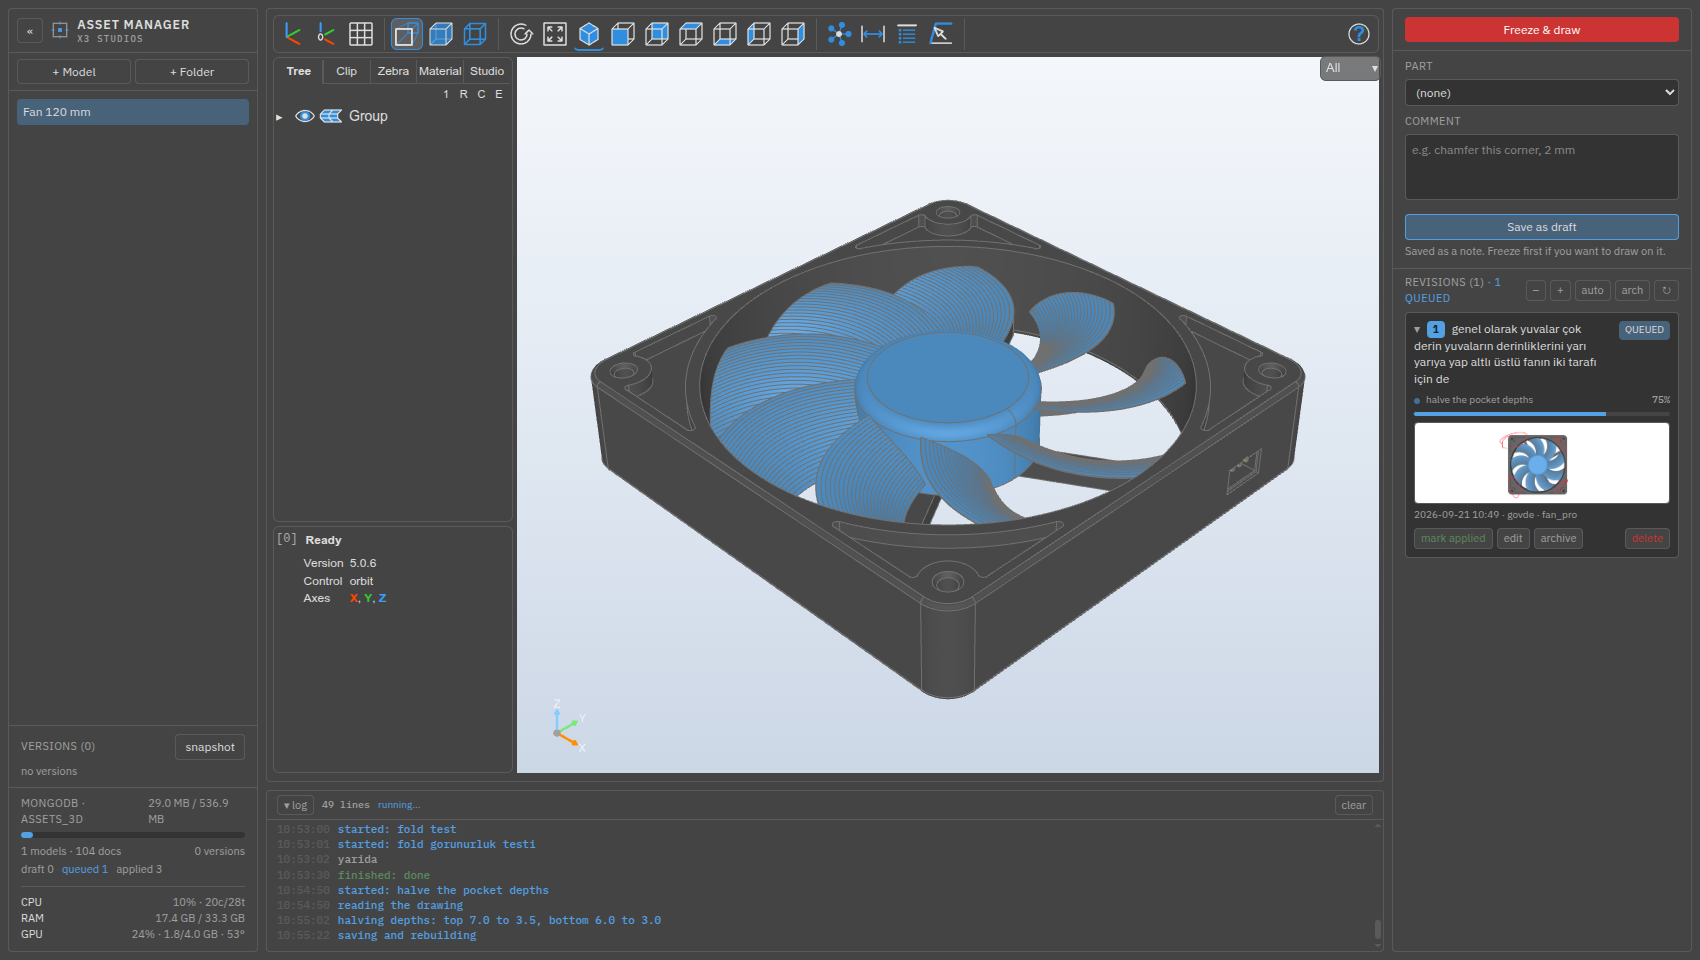
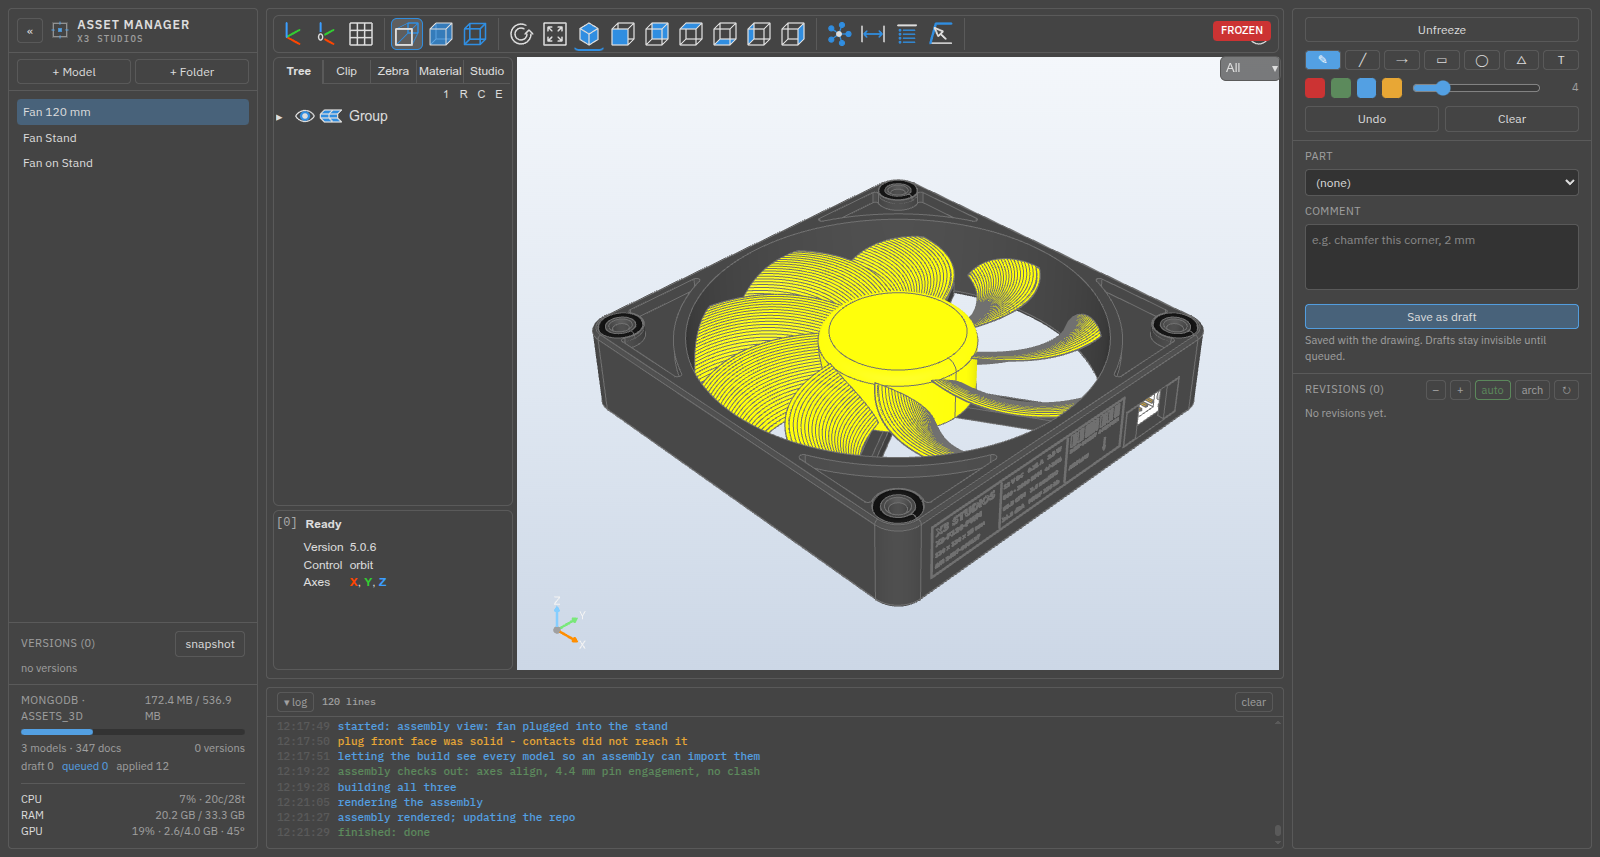
Let a model be built from other models
An assembly used to be impossible: the build wrote only the target model's
source into the working directory, so nothing could import the parts it is
made of and every dimension had to be copied by hand. Every model's source
is written now, and a part guards its exports behind X3_IMPORT_ONLY so
importing one does not drop its STEP and STL into the assembly's output.

Also:
- ?model=<name> opens a named model, and render.py takes model:<name>, so
  a model can be photographed without a revision pointing at it
- the skill now states up front that a run must be opened when a revision
  is picked up; that section was buried at the end and I kept skipping it

README: the assembly section, the seven draw tools, the completion notice,
the clip planes, and a current screenshot.

diff --git a/frontend/src/app/editor/editor.ts b/frontend/src/app/editor/editor.ts
@@ -250,10 +250,16 @@ export class Editor implements AfterViewInit, OnDestroy {
     return pct > 85 ? 'var(--danger)' : pct > 60 ? 'var(--warn)' : 'var(--accent)';
   }
 
-  /** ?rev=<id> opens the model at that revision's camera. */
+  /** ?rev=<id> opens the model at that revision's camera; ?model=<id>
+   *  opens a named model, which is how a shot of one is taken. */
   private applyUrlCamera() {
-    const rev = new URLSearchParams(location.search).get('rev');
+    const q = new URLSearchParams(location.search);
+    const rev = q.get('rev');
     if (rev) this.focusRevision(rev);
+  }
+
+  private urlModel(): string | null {
+    return new URLSearchParams(location.search).get('model');
   }
 
   /** Move to the camera a revision was drawn from. If no model is loaded
@@ -276,8 +282,9 @@ export class Editor implements AfterViewInit, OnDestroy {
     this.cat.tree().subscribe(t => {
       this.catalog.set(t);
       if (!this.activeModel()) {
-        const first = this.firstReady(t);
-        if (first) this.openModel(first);
+        const wanted = this.urlModel();
+        const pick = (wanted && this.findModel(t, wanted)) || this.firstReady(t);
+        if (pick) this.openModel(pick);
         return;
       }
       // A rebuild replaces the stored viewer payload. Without this the open
@@ -291,8 +298,9 @@ export class Editor implements AfterViewInit, OnDestroy {
     });
   }
 
+  /** By id, or by bare name so ?model=stand works without the folder. */
   private findModel(n: FolderNode, id: string): ModelEntry | null {
-    return n.models.find(m => m.id === id)
+    return n.models.find(m => m.id === id || m.name === id)
       ?? n.folders.reduce<ModelEntry | null>(
         (hit, f) => hit ?? this.findModel(f, id), null);
   }

diff --git a/tools/render.py b/tools/render.py
@@ -38,7 +38,7 @@ def render(revision: str, out: Path, width: int, height: int, wait: int) -> Path
     chrome = subprocess.Popen(
         ["google-chrome", *FLAGS, f"--remote-debugging-port={PORT}",
          f"--window-size={width},{height}", f"--user-data-dir={profile}",
-         f"{WEB}/?rev={revision}"],
+         f"{WEB}/?{'model=' + revision.split(':', 1)[1] if revision.startswith('model:') else 'rev=' + revision}"],
         stdout=subprocess.DEVNULL, stderr=subprocess.DEVNULL)
     try:
         page = None
@@ -46,7 +46,8 @@ def render(revision: str, out: Path, width: int, height: int, wait: int) -> Path
             try:
                 tabs = json.load(urllib.request.urlopen(
                     f"http://127.0.0.1:{PORT}/json"))
-                page = next(t for t in tabs if t["type"] == "page" and "rev=" in t["url"])
+                page = next(t for t in tabs if t["type"] == "page"
+                            and ("rev=" in t["url"] or "model=" in t["url"]))
                 break
             except Exception:
                 time.sleep(0.5)
@@ -99,13 +100,14 @@ def render(revision: str, out: Path, width: int, height: int, wait: int) -> Path
 def main() -> None:
     ap = argparse.ArgumentParser(description=__doc__,
                                  formatter_class=argparse.RawDescriptionHelpFormatter)
-    ap.add_argument("revision")
+    ap.add_argument("revision", help="revision id, or model:<name> for a "
+                                     "plain shot of one model")
     ap.add_argument("-o", "--out")
     ap.add_argument("--width", type=int, default=1500)
     ap.add_argument("--height", type=int, default=950)
     ap.add_argument("--wait", type=int, default=40)
     args = ap.parse_args()
-    out = Path(args.out or f"/tmp/after-{args.revision}.png")
+    out = Path(args.out or f"/tmp/after-{args.revision.replace(':', '-')}.png")
     render(args.revision, out, args.width, args.height, args.wait)
     print(f"{out}   ({out.stat().st_size} bytes)")
     print("Open it with the Read tool and compare against the revision drawing.")

diff --git a/backend/build.py b/backend/build.py
@@ -27,6 +27,12 @@ async def build(db, model_id: str, script: Path) -> dict:
         models_dir.mkdir()
         # A model id may contain folders; a flat name is enough in the temp dir.
         flat = model_id.replace("/", "__")
+        # Every model is written, not just the target: an assembly imports the
+        # parts it is made of, and it can only do that if they are on the path.
+        async for other in db.models.find({}, {"source": 1}):
+            name = str(other["_id"]).replace("/", "__")
+            if other.get("source"):
+                (models_dir / f"{name}.py").write_text(other["source"])
         (models_dir / f"{flat}.py").write_text(doc["source"])
         assets_dir = tmp / "assets"
         # Models tend to write STEP/STL under <root>/exports; we create the

diff --git a/README.md b/README.md
@@ -9,6 +9,12 @@ leave a revision note.** All project data lives in MongoDB.
 
 ![user interface](docs/screenshot.png)
 
+Models can be built from other models, so an assembly is just a module that
+imports its parts and positions them — the fit is then checked in code rather
+than by eye:
+
+![fan plugged into its stand](docs/assembly.png)
+
 ## What it solves
 
 Talking about a CAD revision is awkward: "chamfer that corner" — which corner,
@@ -115,10 +121,22 @@ a log at the bottom:
 1. Create a model with **+M** in the left column. A skeleton is generated.
 2. Write the model, build it with **↻** (build123d runs, the result goes to the
    database).
-3. Click the model to open it in the viewer. **Double-click a part** and the
-   form on the right fills itself in.
+3. Click the model to open it in the viewer, or open one directly with
+   `?model=<name>`. **Double-click a part** and the form on the right fills
+   itself in.
 4. **Freeze and draw** &rarr; mark it up &rarr; write the comment and save.
+   Seven tools: freehand, line, arrow, rectangle, ellipse, triangle and text.
+   Text is typed where you click, not in a dialog, so you can see what you are
+   labelling. Saving releases the freeze.
 5. Press **queue** when it is ready. Click the card thumbnail to enlarge it.
+
+A comment about a part is a revision on its own — freeze and draw is optional.
+When a run finishes, a notice appears in the top-right corner and the camera
+swings to the angle the revision was drawn from; the notice stays until it is
+dismissed.
+
+The viewer's **Clip** tab cuts the model on three planes, which is how the
+inside gets inspected without exporting anything.
 
 A single button on the card cycles the status: draft &rarr; queued &rarr;
 applied &rarr; draft. So "applied" can be undone. **edit** changes the comment
@@ -138,6 +156,24 @@ TITLE = "Fan 120 mm"                    # optional, shown in the UI
 PARTS = [frame, rotor, pins]            # build123d objects to tessellate
 NAMES = ["housing", "impeller", "pins"] # optional, names in the tree
 ```
+
+### Assemblies
+
+Every model's source is written into the build directory, not just the one
+being built, so a module can import the parts it is made of:
+
+```python
+import os
+os.environ["X3_IMPORT_ONLY"] = "1"      # parts must not run their own exports
+import fan_pro as F
+import stand as D
+
+PARTS = place(F.PARTS, ...) + place(D.PARTS, ...)
+```
+
+Guard exports and the `show()` call in each part with
+`if STANDALONE:` (`STANDALONE = os.environ.get("X3_IMPORT_ONLY") != "1"`),
+or importing one will drop its STEP and STL into the assembly's output.
 
 ## API
 

diff --git a/.claude/skills/asset-revisions/SKILL.md b/.claude/skills/asset-revisions/SKILL.md
@@ -10,6 +10,24 @@ build123d model in the browser, freezes an angle, marks it with a red pen and
 writes a note. The request lands in MongoDB. **There are no model files on
 disk**; both source code and generated artifacts live in the database.
 
+## Two rules before anything else
+
+1. **Only `queued` items are your work** (see below).
+2. **Open a run the moment you pick one up, and keep the bar moving.** The
+   user follows the work on screen, not in your terminal. A revision worked
+   on without a run looks like nothing is happening.
+
+   ```bash
+   .venv/bin/python tools/revisions.py start <id> "what you are doing"
+   .venv/bin/python tools/revisions.py log "reading the drawing" -p 10
+   ...                                    # a line at every step, -p rising
+   .venv/bin/python tools/revisions.py finish
+   ```
+
+   This is not optional and not something to do at the end: `start` comes
+   before the first edit, and every step that takes more than a moment gets
+   its own `log` line with a percentage.
+
 ## Important: only "queued" items are your work
 
 Revisions have four states:
@@ -106,7 +124,8 @@ them while you work so the user can follow along without reading a terminal:
 
 `-p` moves the bar, `-l` colours the line (`info`, `work`, `done`, `warn`,
 `error`). Start a run when you pick up a revision and finish it when you are
-done; the bar stays live in between.
+done; the bar stays live in between. Report bad news too: a `warn` line when
+a measurement comes out wrong is more useful than a silent correction.
 
 ## When changing a model
 
